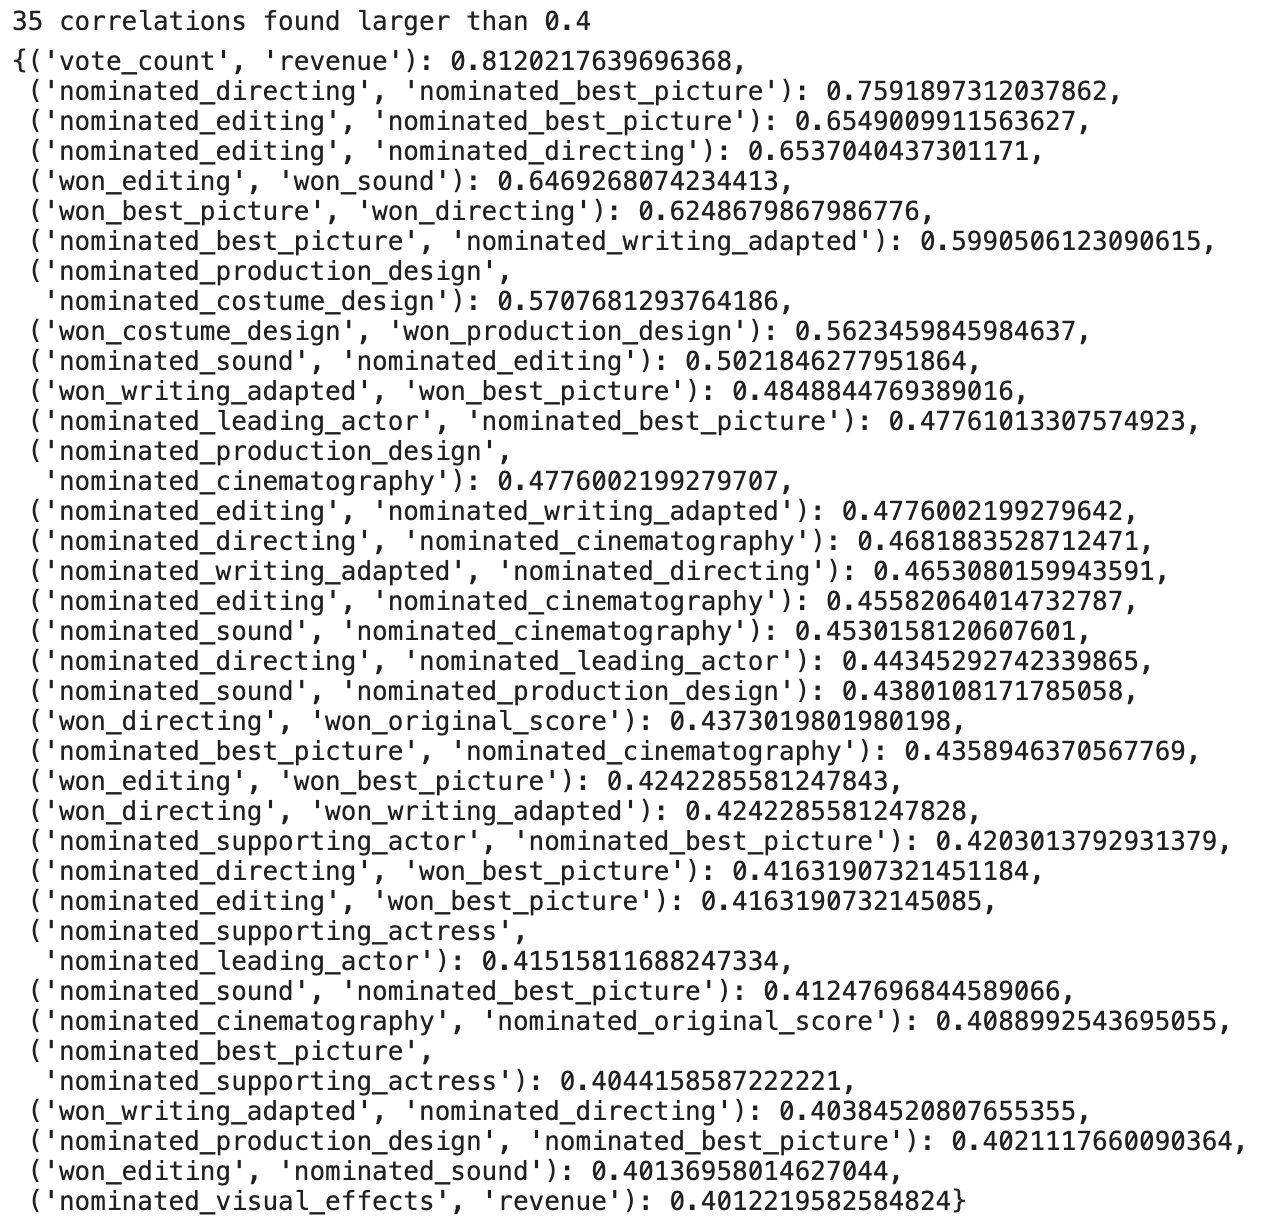
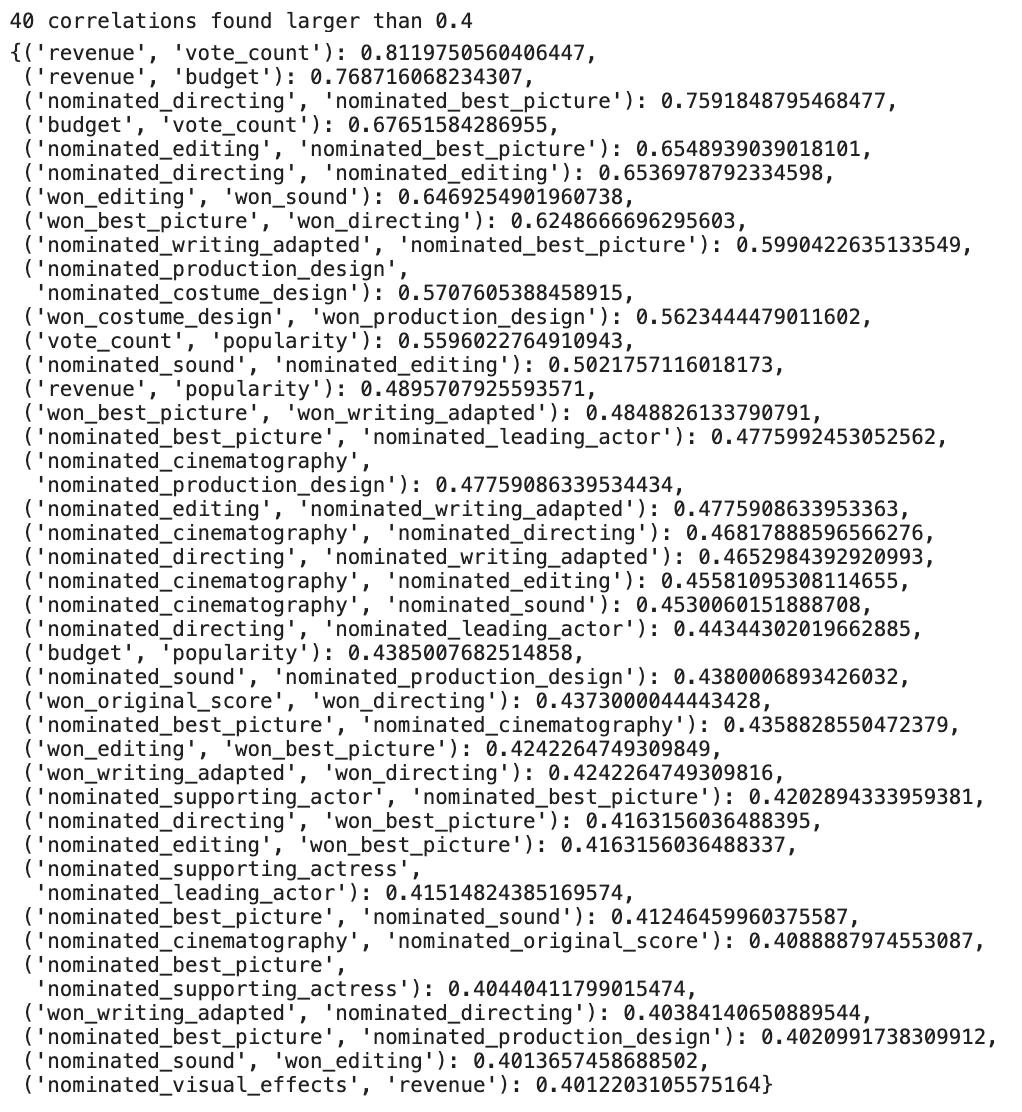
more chapter 2

diff --git a/Cap2-Metodologia.tex b/Cap2-Metodologia.tex
@@ -230,7 +230,7 @@
 
             Também ignoramos as correlações entre países de produção. Mesmo as altas entre elas não acrescentavam dados à nossa análise. A coluna que indica filmes produzidos nas Antilhas Holandesas ('country\_AN'), por exemplo, tem correlação perfeita com a coluna que marca filmes produzidos na Polinésia Francesa ('country\_FP').\par
 
-            Levando em conta a viabilidade da análise, decidimos nos limitar às 35 correlações maiores do que 0.4. Correlações maiores do que 0.3 já gerariam uma lista com quase de 100 itens (ver figuras \ref{corrs_graph} e \ref{corrs0.4}). \par
+            Levando em conta a viabilidade da análise, decidimos nos limitar às correlações maiores do que 0.4. Correlações maiores do que 0.3 já gerariam uma lista com cerca de 100 itens (ver figuras \ref{corrs_graph} e \ref{corrs0.4}). \par
 
             Algumas das correlações interessantes reveladas por essa análise, e que podem ajudar na construção dos modelos, ou indicar parâmetros importantes:
 
